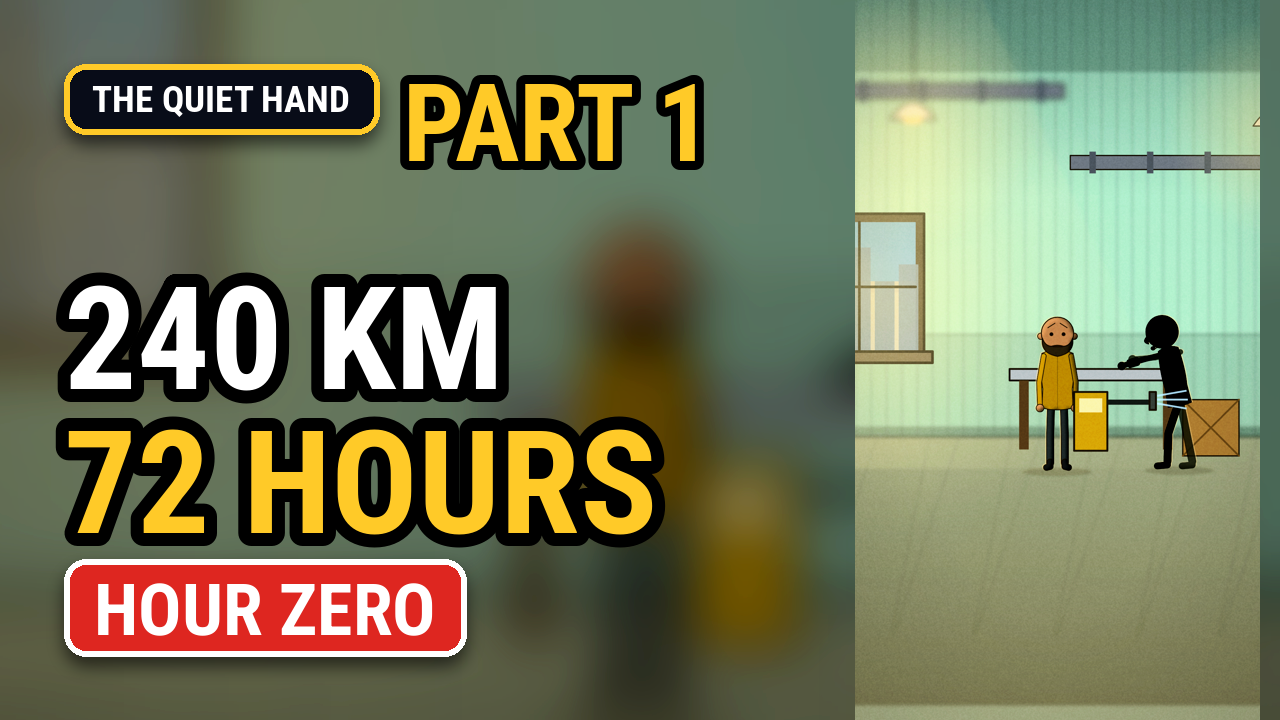
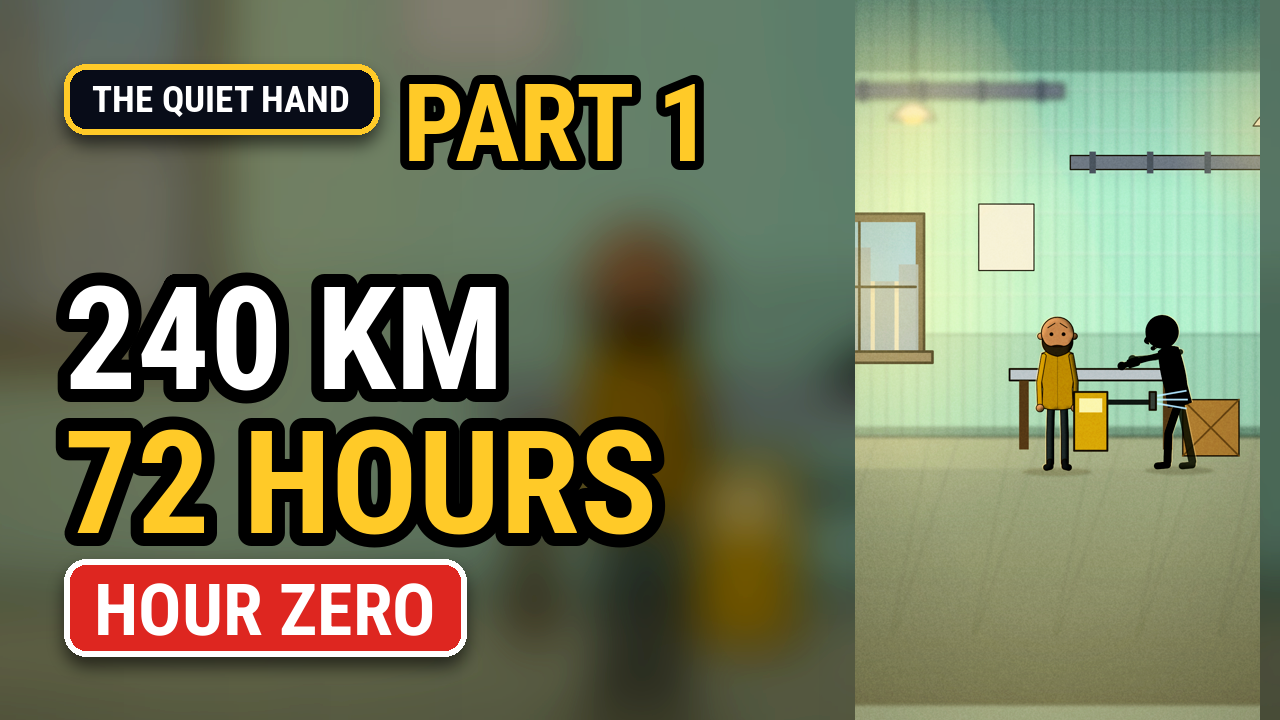
Ep1: fluid fight animation (in-between poses), tiled kitchen wall and striped lobby wall

Changed region(s): [[0.75, 0.275, 0.8125, 0.3972], [0.3438, 0.0, 0.4062, 0.0611]]

diff --git a/studio/long/world9.js b/studio/long/world9.js
@@ -85,6 +85,8 @@ function lanePos(vpx,vpy,gy){return {x:(X,z)=>vpx+X/z,y:z=>vpy+(gy-vpy)/z}}
 LOC['w_'+W.id]=(Z,p)=>{FLK.length=0;const LC=(W.locs||{})[p.v||Object.keys(W.locs)[0]]||{};const f=G(Z.far),m=G(Z.mid),n=G(Z.near);const upd=[];const kind=LC.kind||'out';
  const layers=[G(f),G(m),G(n)];
  if(kind==='in'){R(f,-200,-700,1680,2400,LC.wall||P_.wall||'#3a3530');for(let i=0;i<64;i++)R(f,i*24-60,-700,2,2400,'rgba(0,0,0,.18)');R(f,-200,590,1680,900,LC.floor||P_.floor||'#2a2420');R(f,-200,590,1680,420,'url(#gGroundShade)',{opacity:.8});L(f,-200,590,1480,590,'rgba(0,0,0,.4)',4);
+  if(LC.pattern==='tiles'){for(let y=-80;y<430;y+=64)L(f,-200,y,1480,y,'rgba(255,255,255,.35)',2),L(f,-200,y+2,1480,y+2,'rgba(0,0,0,.10)',1.5);for(let x=-200;x<1480;x+=64)L(f,x,-80,x,430,'rgba(255,255,255,.28)',2)}
+  if(LC.pattern==='stripes'){for(let x=-200;x<1480;x+=84)R(f,x,-80,42,510,'rgba(255,255,255,.12)')}
   R(f,-200,430,1680,160,LC.wain||'rgba(0,0,0,.10)');L(f,-200,430,1480,430,'rgba(0,0,0,.22)',3);R(f,-200,574,1680,16,'rgba(0,0,0,.28)');for(let i=0;i<30;i++)L(f,-200+i*64-(i%2)*18,590,-200+i*64-60-(i%2)*60,900,'rgba(0,0,0,.10)',2);R(f,-200,-100,1680,120,'rgba(0,0,0,.22)');
   if(LC.light!==false)P(f,LC.cone||'M200,-100 L520,-100 L860,640 L120,640Z','url(#gCone)',{opacity:W.time==='day'?.34:.12});R(f,-200,-100,1680,900,'url(#gWallShade)',{opacity:.8});A(f,{style:'filter:blur(2.4px)'})}
  else if(kind==='lane'){const LP=lanePos(640,LC.vpy||398,720),vpy=LC.vpy||398;if(LC.indoor){R(f,-200,-100,1680,900,LC.wall||P_.wall||'#2a2f38');P(f,`M-200,-100 L1480,-100 L1480,40 L${640+120},${vpy-40} L${640-120},${vpy-40} L-200,40Z`,'#14171d');R(f,-200,vpy-60,1680,120,'url(#gWallShade)',{opacity:.5});A(f,{style:'filter:blur(2px)'})}else{skyDraw(f,LC);P(f,'M-200,404 Q100,340 380,396 T800,376 T1200,398 T1500,384 L1500,420 L-200,420Z',P_.hills||'#2a2744');R(f,-200,360,1680,70,'url(#gHaze)');A(f,{style:'filter:blur(3px)'})}

diff --git a/studio/long/pax9.js b/studio/long/pax9.js
@@ -128,6 +128,7 @@ function paxHead(g,P,o){
  const mf=pMouth(q,ex,0,ink);pHairFront(q,D,P,v,ink);pSweat(q,o);pTears(q,o);
  if(D.flatcap&&ex.eye==='closed'){}
  q._mouth=mf;mf(o.mouth||0);return q}
+
 (function(){const _kh=khead;khead=function(g,P,o){if(PAXH[o.who])return paxHead(g,P,o);return _kh(g,P,o)}})();
 
 /* ---- body decorations (called by keeper after the torso/arms are drawn): vest, tie, stethoscope, bandage ... ---- */
@@ -191,3 +192,6 @@ Object.assign(SIDE,{
  windup:{lean:-12,n:{l:[[2,-140],[14,-76],[8,-14]],a:[[2,-250],[-34,-262],[-62,-320]]},f:{l:[[-2,-140],[-18,-72],[-24,-14]],a:[[-2,-250],[-26,-236],[-48,-290]]}},
  follow:{lean:20,n:{l:[[2,-140],[24,-80],[14,-14]],a:[[2,-250],[56,-214],[96,-160]]},f:{l:[[-2,-140],[-20,-72],[-26,-14]],a:[[-2,-250],[-8,-196],[18,-150]]}},
  punch:{lean:12,n:{l:[[2,-140],[18,-76],[10,-14]],a:[[2,-250],[50,-248],[100,-250]]},f:{l:[[-2,-140],[-16,-72],[-20,-14]],a:[[-2,-250],[-20,-200],[-8,-160]]}}});
+function _bl(a,b,t){const m=(x,y)=>x+(y-x)*t,pr=(P,Q)=>P.map((p,i)=>[m(p[0],Q[i][0]),m(p[1],Q[i][1])]);return {lean:m(a.lean||0,b.lean||0),n:{l:pr(a.n.l,b.n.l),a:pr(a.n.a,b.n.a)},f:{l:pr(a.f.l,b.f.l),a:pr(a.f.a,b.f.a)}}}
+(function(){const S=SIDE;if(!S.windup||!S.punch||!S.follow)return;[.25,.5,.75].forEach((t,i)=>{S['wp'+(i+1)]=_bl(S.windup,S.punch,t);S['pf'+(i+1)]=_bl(S.punch,S.follow,t)})})();
+

diff --git a/studio/long/worldlib.py b/studio/long/worldlib.py
@@ -163,7 +163,7 @@ def strike(sc,who,zname,word,held=None,wind=.5,kill=True,fall_dx=34,**kw):
     scn,view=shot
     for a in scn['p']['acts']:
         if a.get('k')==who:
-            a['view']='side';a['flip']=flip;a['seq']=turn((0,'side',None,{'pose':'windup','flip':flip}),(wind,'side',None,{'pose':'punch','flip':flip}),(wind+.45,'side',None,{'pose':'follow','flip':flip}))
+            a['view']='side';a['flip']=flip;a['seq']=turn(*[(at,'side',None,{'pose':ps,'flip':flip}) for at,ps in((0,'windup'),(wind-.2,'wp1'),(wind-.13,'wp2'),(wind-.06,'wp3'),(wind,'punch'),(wind+.1,'pf1'),(wind+.2,'pf2'),(wind+.3,'pf3'),(wind+.45,'follow'))])
         if a.get('nm')==zname:
             a['shake']=dict(at=wind+.12,dur=.3,amp=7)
             if kill:a['fall']=dict(at=wind+.12,dur=.6,rot=-88,dx=fall_dx*(1 if a.get('flip') else -1))

diff --git a/studio/departments/BACKLOG.md b/studio/departments/BACKLOG.md
@@ -1,6 +1,6 @@
 # Studio backlog (generated by improve.py, do not edit by hand)
 
-Updated 2026-10-30 13:21 UTC from 4 reviewed clips. Work from the top; fix the CAUSE in the toolchain, then re-review.
+Updated 2026-10-30 13:35 UTC from 4 reviewed clips. Work from the top; fix the CAUSE in the toolchain, then re-review.
 
 | # | dept | seen in | issue |
 |---:|---|---:|---|

diff --git a/studio/departments/scorecards/quiet_01.md b/studio/departments/scorecards/quiet_01.md
@@ -1,4 +1,4 @@
-# Scorecard quiet_01  (2026-10-30 13:21 UTC)
+# Scorecard quiet_01  (2026-10-30 13:35 UTC)
 
 | department | score | bar | verdict |
 |---|---:|---:|---|
